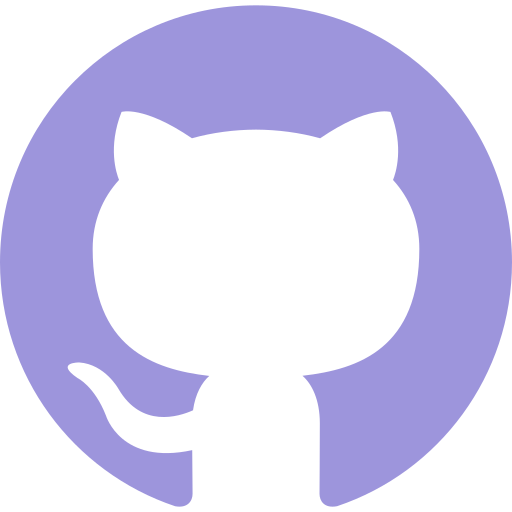
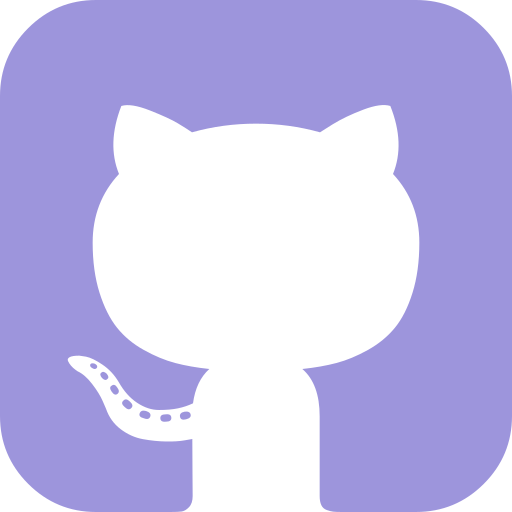
touch up on github images

diff --git a/src/app/[project]/page.js b/src/app/[project]/page.js
@@ -25,12 +25,6 @@ export default function Project(){
     const [imageCarousel, setImageCarousel] = useState("")
     var url
 
-    const Links = [
-        {image:"YouTube", url:"https://www.youtube.com/channel/UCztvL6zXMKsyyJ1EfNsNpGQ"},
-        {image:"GitHub", url:"https://github.com/anagarango"},
-        {image:"LinkedIn", url:"https://www.linkedin.com/in/ana-arango-08592122a/"}
-    ]
-
 
     useEffect(()=>{
         url = window.location.pathname.split('/').pop().replace(/%20/g, " ");
@@ -66,12 +60,12 @@ export default function Project(){
                             <Heading id="secondHeading" color='#9DFFFF' fSize="30px"  textAlign="center">{project.date}</Heading>
                         </Hero>
                         <Box position="sticky" zIndex="5" top="0px" width="25vw" minWidth="230px" aliIt="center" maxWidth="330px" bgColor="rgba(43,31,95,0.6)" borderRadius="15px" backdropFilter="blur(20px) saturate(1.5)" justCont="space-between">
-                            <a href={project.github} onMouseOver={()=>setWord("GitHub")} onMouseOut={()=>setWord("")} style={{padding:"15px 25px"}}>
+                            <a href={project.github} onMouseOver={()=>setWord("GitHub")} onMouseOut={()=>setWord("")} style={{margin:"15px 25px"}}>
                                 <Image alt="github image" className='linkGithub' src="/Github/github.png" width={38} height={38}  />
                             </a>
                             <Heading id="secondHeading" color='#EA638D' fontWeight="500" fSize="18px" >{word}</Heading>
                             {project.vercel &&
-                                <a href={project.vercel} onMouseOver={()=>setWord("Website")} onMouseOut={()=>setWord("")} style={{padding:"15px 25px"}}>
+                                <a href={project.vercel} onMouseOver={()=>setWord("Website")} onMouseOut={()=>setWord("")} style={{margin:"15px 25px"}}>
                                     <Image alt="live webpage image" className='linkVercel' src="/Vercel/live.png" width={38} height={38}  />
                                 </a>
                             }

diff --git a/src/app/components/header.js b/src/app/components/header.js
@@ -15,12 +15,12 @@ export default function Header({
     return(
             <Box width="60px" position="fixed" left="0" top="0"  height={height} bgColor="#2B255B" flexDir="column" aliIt="center" zIndex="5">
                 {HeaderImage.map((o,i)=>(
-                    <Link key={i} title={o} href={`/#${o}`} style={{display:"flex", margin:"20px 0px", scrollBehavior:"smooth"}}>
-                        <Image alt={o} className={o} src={`/SVG/${o}.svg`} width={35} height={35} style={{margin:"10px"}} />
+                    <Link key={i} title={o} href={`/#${o}`} style={{display:"flex", margin:"18px 0px", scrollBehavior:"smooth"}}>
+                        <Image alt={o} className={o} src={`/SVG/${o}.svg`} width={33} height={33} />
                     </Link>
                 ))}
                 <a title="Resume" href="/AnaArango-Resume.pdf" download style={{ position:"absolute", bottom:55, padding:"10px"}}>
-                    <Image alt="Resume" className="Resume" src="/SVG/Resume.svg" width={35} height={35}/>
+                    <Image alt="Resume" className="Resume" src="/SVG/Resume.svg" width={33} height={33}/>
                 </a>
             </Box>
     )

diff --git a/styles/globals.css b/styles/globals.css
@@ -25,11 +25,6 @@ main{
   height: fit-content;
 }
 
-.linkGithub:hover, .linkVercel:hover, .About:hover, .Contact:hover, .Home:hover, .Resume:hover, .Projects:hover{
-  transform: scale(1.1);
-  transition: 0.6s ease-out;
-}
-
 .linkGithub:hover{
   content: url('/Github/githubhover.png');
 }
@@ -43,8 +38,8 @@ main{
   content: url('/Vercel/livehover.png');
 }
 
-svg:hover {
-  fill: #5C5C9E !important
+.About:hover {
+  content: url('/SVG/Abouthover.svg');
 }
 
 .Resume:hover{

diff --git a/src/app/components/footer.js b/src/app/components/footer.js
@@ -5,7 +5,7 @@ import Link from "next/link"
 export default function Footer(){
 
     const Links = [
-        {image:"GitHub", url:"https://github.com/anagarango"},
+        {image:"GitHub/github", url:"https://github.com/anagarango"},
         {image:"LinkedIn", url:"https://www.linkedin.com/in/ana-arango-08592122a/"},
         {image:"Email", url:"/#Contact"}
     ]
